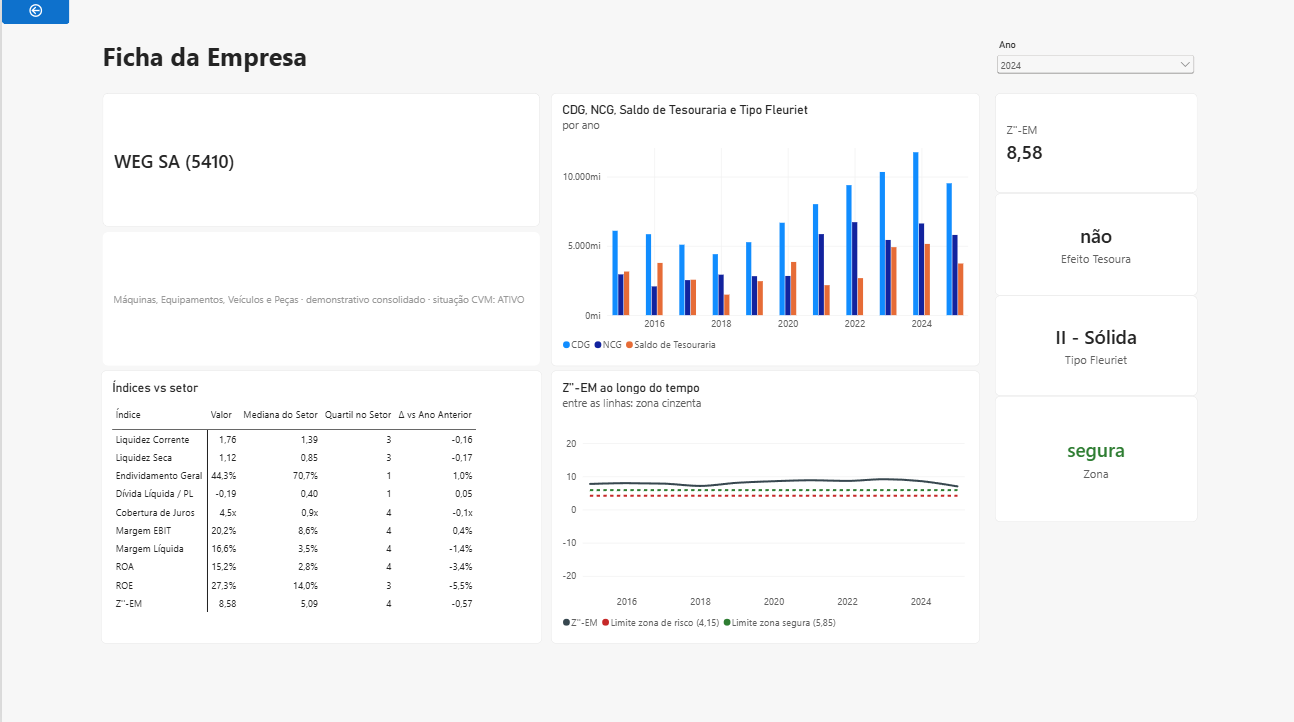
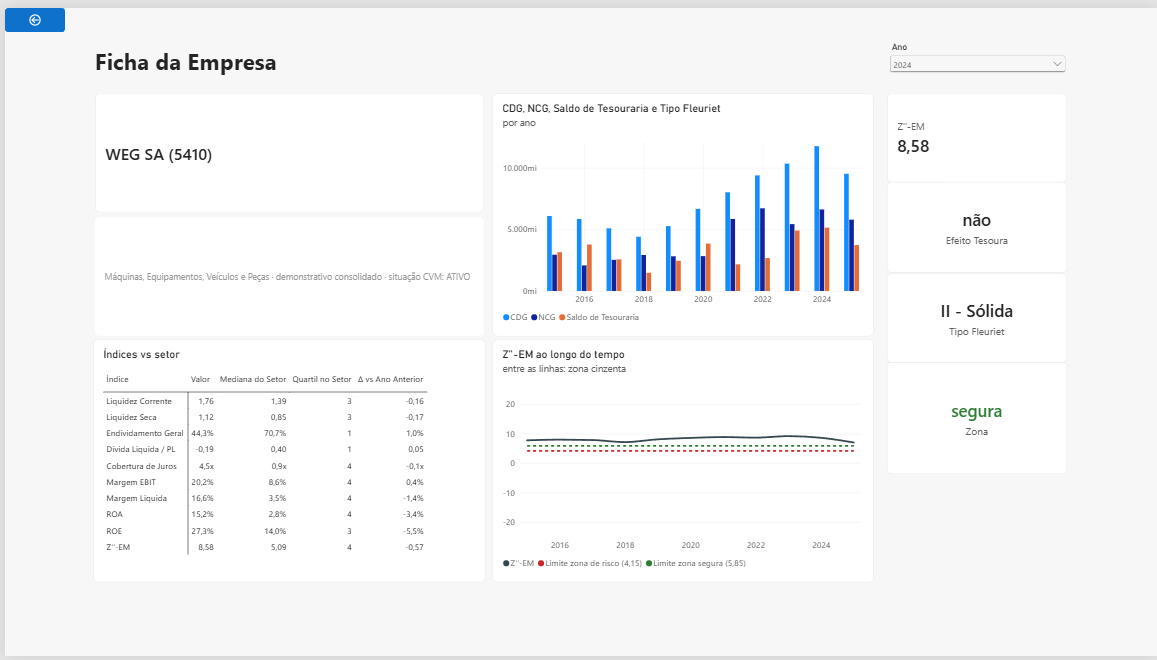
fix: achados da revisão final do branch
- validar-dax exige --ano/--ano-base em percentil/migracao e acusa
  coluna ausente no CSV com mensagem clara
- docs alinhados ao modelo: medida 'vs Ano Anterior', Top 5, Empresas com
  Valor, alcance da validação do Z, novas linhas de validação

diff --git a/tests/test_validacao.py b/tests/test_validacao.py
@@ -116,3 +116,18 @@ def test_ler_resultado_dax_decimal_virgula_do_modelo_pt_br(tmp_path):
     df = validacao.ler_resultado_dax(p)
     assert df.iloc[0]["x"] == 1.5
     assert math.isnan(df.iloc[1]["x"])
+
+
+def test_cli_percentil_e_migracao_exigem_ano():
+    from pipeline import cli
+    with pytest.raises(SystemExit):
+        cli.main(["validar-dax", "percentil", "x.csv"])
+    with pytest.raises(SystemExit):
+        cli.main(["validar-dax", "migracao", "x.csv", "--ano", "2025"])
+
+
+def test_comparar_coluna_ausente_no_dax_da_erro_claro():
+    dax = pd.DataFrame({"k": [1]})
+    ref = pd.DataFrame({"k": [1], "x": [1.0]})
+    with pytest.raises(ValueError, match="x"):
+        validacao.comparar(dax, ref, ["k"], ["x"])

diff --git a/pipeline/cli.py b/pipeline/cli.py
@@ -89,6 +89,11 @@ def main(argv=None):
     p_val.add_argument("--ano", type=int)
     p_val.add_argument("--ano-base", type=int)
     args = parser.parse_args(argv)
+    if args.comando == "validar-dax":
+        if args.tipo in ("percentil", "migracao") and args.ano is None:
+            parser.error(f"validar-dax {args.tipo} exige --ano")
+        if args.tipo == "migracao" and args.ano_base is None:
+            parser.error("validar-dax migracao exige --ano-base")
 
     if args.comando == "run":
         run(_parse_anos(args.anos), forcar=args.forcar)

diff --git a/pipeline/validacao.py b/pipeline/validacao.py
@@ -14,6 +14,9 @@ def ler_resultado_dax(caminho):
 
 
 def comparar(dax, ref, chaves, colunas, tol=1e-6):
+    ausentes = [c for c in [*chaves, *colunas] if c not in dax.columns]
+    if ausentes:
+        raise ValueError(f"colunas ausentes no resultado do DAX: {ausentes}")
     m = dax.merge(ref, on=chaves, how="outer", suffixes=("_dax", "_ref"), indicator=True)
     saida = [{**{k: r[k] for k in chaves}, "coluna": "(linha)", "dax": r["_merge"], "ref": None}
              for _, r in m[m["_merge"] != "both"].iterrows()]

diff --git a/docs/dicionario-metricas.md b/docs/dicionario-metricas.md
@@ -2,7 +2,7 @@
 
 Modelo: `powerbi/analise-credito-cvm.SemanticModel` (tabela `Medidas` e grupo
 de cálculo `Benchmark`). Responsável: Leonardo Santiago Floriano.
-Última revisão: 2026-09-23. A descrição de cada medida no modelo repete a
+Última revisão: 2026-09-29. A descrição de cada medida no modelo repete a
 definição curta daqui. **Mudou uma medida? Atualize esta página no mesmo
 commit.** O DAX completo está no TMDL (`definition/tables/Medidas.tmdl`,
 `Benchmark.tmdl`); a validação contra o Python está em `docs/validacao-dax.md`.
@@ -34,9 +34,9 @@ Páginas: **T** = Triagem de risco · **F** = Ficha da empresa ·
 | Medida | Definição | Leitura | Brancos | Páginas |
 |---|---|---|---|---|
 | Liquidez Corrente | Ativo Circulante / Passivo Circulante | Maior é melhor; < 1 = o ativo de curto prazo não cobre o passivo de curto prazo | PC = 0 | F, P |
-| Liquidez Seca | (Ativo Circulante − Estoques) / Passivo Circulante | Maior é melhor; liquidez sem depender de vender estoques | PC = 0 | F, P |
+| Liquidez Seca | (Ativo Circulante − Estoques) / Passivo Circulante | Maior é melhor; liquidez sem depender de vender estoques | PC = 0; estoques ausente | F, P |
 | Endividamento Geral | (Passivo Circulante + Passivo Não Circulante) / Ativo Total | Menor é melhor; parcela do ativo financiada por terceiros | AT = 0 | F, P |
-| Dívida Líquida / PL | (Empréstimos CP + Empréstimos LP − Caixa − Aplicações) / PL | Menor é melhor; negativo = caixa líquido | PL ≤ 0; caixa ausente (1 empresa-ano) | F, P |
+| Dívida Líquida / PL | (Empréstimos CP + Empréstimos LP − Caixa − Aplicações) / PL | Menor é melhor; negativo = caixa líquido | PL ≤ 0; qualquer componente ausente (caixa ausente em 1 empresa-ano) | F, P |
 | Cobertura de Juros | EBIT / \|Despesas Financeiras\| | Maior é melhor; < 1x = o operacional não paga os juros | despesa financeira = 0 | F, P |
 | Margem EBIT | EBIT / Receita Líquida | Maior é melhor | receita = 0 | F, P |
 | Margem Líquida | Lucro Líquido / Receita Líquida | Maior é melhor | receita = 0 | F, P |
@@ -94,8 +94,9 @@ IF ( COUNTROWS ( fato_indicadores ) = 1,
 | Valor do Índice | O índice escolhido em `dim_indice[indice]`: um seletor que troca a medida (SWITCH). Formato vem de `dim_indice[formato]` | F, P |
 | Fórmula do Índice | Fórmula do índice escolhido, para tooltip | F |
 | Leitura do Índice | Direção de leitura (maior/menor é melhor) e ressalvas do índice escolhido, para tooltip | F |
-| Q1 / Mediana / Q3 do Setor (índice) | Atalhos: `[Valor do Índice]` com o item Q1, Mediana ou Q3 do Setor. Existem para que cada coluna de uma tabela possa ter formatação própria (ex.: barras só na mediana) e para `[Empresas]` caber na mesma tabela | P |
-| Nome do Índice | Nome do índice em contexto, para títulos dinâmicos (com o grupo de cálculo, "valor do campo" só aceita medida) | F |
+| Q1 / Mediana / Q3 do Setor (índice) | Atalhos: `[Valor do Índice]` com o item Q1, Mediana ou Q3 do Setor. Existem para que cada coluna de uma tabela possa ter formatação própria (ex.: barras só na mediana) e para `[Empresas]` caber na mesma tabela. **Não combine com `Benchmark[Comparação]` no mesmo visual**: na linha "Mediana do Setor" o item seria aplicado duas vezes e a medida fica em branco | P |
+| Nome do Índice | Nome do índice em contexto, para títulos dinâmicos (com o grupo de cálculo, "valor do campo" só aceita medida) | F, P |
+| Empresas com Valor | Empresas com o índice escolhido calculado: quantos valores entram de fato na mediana e nos quartis (menor que `[Empresas]` quando há PL ≤ 0, receita zero ou Z indeterminado). Use no filtro "≥ 3" do Panorama | P |
 
 Itens do grupo de cálculo `Benchmark[Comparação]`. Eles só transformam as
 medidas de índice (`[Valor do Índice]`, os 9 índices e `[Z''-EM]`); qualquer
@@ -109,7 +110,7 @@ outra medida (textos, avisos, contagens) passa intacta, o que permite usar
 | Q1 do Setor / Q3 do Setor | 1º e 3º quartis (`PERCENTILEX.INC` 0,25 e 0,75, interpolação linear) | Idem |
 | Percentil no Setor | Fração das empresas do setor com valor **menor ou igual** ao da empresa (0–100%) | Empates contam a favor da empresa |
 | Quartil no Setor | 1 (valores mais baixos) a 4 (mais altos), = ⌈percentil × 4⌉ | **Não** diz se é bom: para Endividamento e Dívida Líquida/PL, quartil 1 é o melhor. Ver `[Leitura do Índice]`. |
-| Δ vs Ano Anterior | Valor do ano − valor do ano anterior, mesmo contexto | Para índices em %, o resultado está em pontos percentuais |
+| Δ vs Ano Anterior | Valor do ano − valor do ano anterior, mesmo contexto | Para índices em %, o resultado está em pontos percentuais. Sobre o Z usa o Z real: numa empresa fora da escala o Δ pode ser enorme (a Triagem usa `[Δ Z''-EM (exibição)]`, que esconde esse caso) |
 
 Implementação: os itens setoriais montam primeiro uma tabela
 (empresa → valor) só com as empresas que têm linha no fato, e depois agregam
@@ -122,7 +123,7 @@ caso está documentado em `docs/validacao-dax.md`.
 | Medida | Definição | Páginas |
 |---|---|---|
 | Empresa Selecionada | "nome (CD_CVM)" da empresa em contexto; sem empresa, instrui a chegar pela Triagem via Detalhamento | F |
-| Detalhe da Empresa | Setor · tipo de demonstrativo · situação na CVM da empresa em contexto | F |
+| Detalhe da Empresa | Setor · tipo de demonstrativo **usado no ano exibido** (`fato_indicadores[tipo_demonstrativo]`; em 257 empresas-ano ele difere do mais recente) · situação na CVM | F |
 
 ## Triagem (pasta Triagem)
 
@@ -130,10 +131,11 @@ caso está documentado em `docs/validacao-dax.md`.
 |---|---|---|
 | Empresas | Empresas distintas no contexto | T, P |
 | Empresas-Ano | Linhas empresa-ano no contexto | — |
-| Δ Empresas vs Ano Anterior | Empresas no ano − empresas no ano anterior, mesmo filtro (ex.: cartão da zona risco). Mistura migração de zona com entrada e saída de empresas do universo | T |
+| vs Ano Anterior | *(nome curto por ter sido renomeada no cartão; antes "Δ Empresas vs Ano Anterior")* Empresas no ano − empresas no ano anterior, mesmo filtro (ex.: cartão da zona risco). Mistura migração de zona com entrada e saída de empresas do universo | T |
 | % em Risco | Empresas-ano na zona risco / empresas-ano com Z calculado. A zona indeterminada fica fora do denominador | P |
 | % com Efeito Tesoura | Empresas-ano com alerta / empresas-ano com histórico comparável. **Nulos fora do denominador** (1.771 empresas-ano sem histórico) | T |
-| Migração de Zona | Empresas que estavam na zona da linha (`zona_origem`) no ano de `ano_base` e estão na zona da coluna (`dim_zona`) no ano selecionado. Só conta empresas presentes nos dois anos | T |
+| Migração de Zona | Empresas que estavam na zona da linha (`zona_origem`) no ano de `ano_base` e estão na zona da coluna (`dim_zona`) no ano selecionado. Só conta empresas presentes nos dois anos. **Sem ano base escolhido, usa o ano anterior**; ano base igual ou posterior ao selecionado → branco (comparar 2024 com 2024 daria só a diagonal) | T |
+| Título Migração | Título dinâmico da matriz: "Migração entre zonas: 2024 → 2025 …", ou um aviso quando o ano base não é anterior ao selecionado | T |
 | Cor da Zona | Hexadecimal da zona (segura #2E7D32, cinzenta #F9A825, risco #C62828, indeterminada #9E9E9E), para formatação condicional | T, F |
 
 ## Avisos (pasta Avisos)
@@ -150,7 +152,7 @@ caso está documentado em `docs/validacao-dax.md`.
 | Medida | Definição | Páginas |
 |---|---|---|
 | Problemas de Qualidade | Registros no log de qualidade do pipeline (`qualidade`, tabela desconectada) | Q |
-| Empresas Excluídas | Empresas distintas excluídas na etapa `filtro`: setor financeiro, sem cadastro, ativo total nulo ou zero, layout não padrão | Q |
+| Empresas Excluídas | Empresas distintas excluídas na etapa `filtro`: setor financeiro, sem cadastro, ativo total nulo ou zero, layout não padrão. Respeita a segmentação de etapa (em branco se ela excluir "filtro") | Q |
 
 ## Limitações
 

diff --git a/docs/roteiro-visuais.md b/docs/roteiro-visuais.md
@@ -39,10 +39,10 @@ Pergunta: *quais empresas olhar primeiro, e o quadro está melhorando?*
 | 1 | Segmentação | `dim_ano[ano]` | a sincronizada (regras gerais) |
 | 2 | Segmentação | `dim_setor[setor]` | lista suspensa, multisseleção, caixa de pesquisa ligada |
 | 3 | Segmentação | `dim_zona[zona]` | estilo botões, horizontal. **Editar interações:** ela filtra **só** a tabela (#8); nos cartões (#4–6) e na matriz (#7), marque "nenhum" |
-| 4 | Cartão (novo) "Zona segura" | Valor `[Empresas]`; filtro do visual `dim_zona[zona]` = segura; rótulo de referência `[Δ Empresas vs Ano Anterior]` | cor do valor `#2E7D32`; rótulo de referência com legenda "vs ano anterior" |
+| 4 | Cartão (novo) "Zona segura" | Valor `[Empresas]`; filtro do visual `dim_zona[zona]` = segura; rótulo de referência `[vs Ano Anterior]` | cor do valor `#2E7D32`; rótulo de referência com legenda "vs ano anterior" |
 | 5 | Cartão (novo) "Zona cinzenta" | idem, com cinzenta | cor `#F9A825` |
 | 6 | Cartão (novo) "Zona de risco" | idem, com risco | cor `#C62828` |
-| 7 | Matriz "Migração de zona" | Linhas `zona_origem[zona_origem]`; Colunas `dim_zona[zona]`; Valores `[Migração de Zona]` | ao lado, segmentação `ano_base[ano_base]` (lista suspensa, seleção única, 2024, título "Ano base"). Fundo das células em escala de cor (branco → `#37474F`). Linhas = zona no ano base; colunas = zona no ano selecionado; a diagonal é quem ficou na mesma zona. Título: "Migração entre zonas (linha: ano base; coluna: ano selecionado)" |
+| 7 | Matriz "Migração de zona" | Linhas `zona_origem[zona_origem]`; Colunas `dim_zona[zona]`; Valores `[Migração de Zona]` | ao lado, segmentação `ano_base[ano_base]` (lista suspensa, título "Ano base (vazio = ano anterior)"; **deixe sem seleção** para comparar sempre com o ano anterior). Título dinâmico por `[Título Migração]`. Fundo das células em escala de cor (branco → `#37474F`). Linhas = zona no ano base; colunas = zona no ano selecionado; a diagonal é quem ficou na mesma zona. Título: "Migração entre zonas (linha: ano base; coluna: ano selecionado)" |
 | 8 | Tabela "Empresas" | `dim_empresa[empresa]`, `dim_setor[setor]`, `[Z''-EM (exibição)]`, `[Fora da Escala]`, `[Zona]`, `[Tipo Fleuriet]`, `[Δ Z''-EM (exibição)]`, `[Efeito Tesoura]` | ordenar por `[Z''-EM (exibição)]` crescente (piores primeiro; as fora da escala empatam em −25 e aparecem como "< -25"). Subtítulo: "Z limitado a ±25; Δ em branco = sem ano anterior ou fora da escala". Formatação condicional: fundo de `[Zona]` por **valor de campo** `[Cor da Zona]`, fonte branca; ícones em `[Δ Z''-EM (exibição)]` (seta verde se > 0, vermelha se < 0). Cabeçalhos: "Empresa", "Setor", "Z''-EM", "Z real", "Zona", "Fleuriet", "Δ Z", "Efeito tesoura" |
 | 9 | Cartão (novo) | `[% com Efeito Tesoura]` | título "Com alerta de efeito tesoura", subtítulo "entre empresas com histórico comparável" |
 | 10 | Cartão de texto (ou caixa de texto com valor dinâmico) | `[Nota Metodológica]` | rodapé, fonte 9, cinza |
@@ -99,8 +99,8 @@ Pergunta: *como o setor está, e onde a empresa se encaixa?*
 |---|---|---|---|
 | 1 | Segmentação | `dim_ano[ano]` | a sincronizada |
 | 2 | Segmentação | `dim_indice[indice]` | lista suspensa, seleção única, valor Z''-EM, título "Índice" |
-| 3 | Tabela "Distribuição do índice por setor" | `dim_setor[setor]`, `[Q1 do Setor (índice)]`, `[Mediana do Setor (índice)]`, `[Q3 do Setor (índice)]`, `[Empresas]` | título dinâmico com `[Nome do Índice]`. Barras de dados **só** em `[Mediana do Setor (índice)]` (*Elementos da célula → Série*). Ordenar pela mediana. Cabeçalhos "Setor", "Q1", "Mediana", "Q3", "Empresas". São medidas explícitas (atalhos para o grupo de cálculo), por isso dá para formatar cada coluna e pôr `[Empresas]` junto |
-| 5 | Gráfico de linhas "% em zona de risco" | Eixo X `dim_ano[ano]`; Y `[% em Risco]`; Legenda `dim_setor[setor]` | segmentação de ano → "nenhum" neste visual. Filtro do visual: Top 6 de `dim_setor[setor]` por `[Empresas]` (ou pequenos múltiplos por setor, se preferir) |
+| 3 | Tabela "Distribuição do índice por setor" | `dim_setor[setor]`, `[Q1 do Setor (índice)]`, `[Mediana do Setor (índice)]`, `[Q3 do Setor (índice)]`, `[Empresas com Valor]` | título dinâmico com `[Nome do Índice]`. Filtro do visual: `[Empresas com Valor]` ≥ 3 (conta os valores que entram na mediana, não só as empresas). Barras de dados **só** em `[Mediana do Setor (índice)]` (*Elementos da célula → Série*). Ordenar pela mediana. Cabeçalhos "Setor", "Q1", "Mediana", "Q3", "Empresas". São medidas explícitas (atalhos para o grupo de cálculo), por isso dá para formatar cada coluna e pôr `[Empresas]` junto |
+| 5 | Gráfico de linhas "% em zona de risco" | Eixo X `dim_ano[ano]`; Y `[% em Risco]`; Legenda `dim_setor[setor]` | segmentação de ano → "nenhum" neste visual. Filtro do visual: Top 5 de `dim_setor[setor]` por `[Empresas]` (ou pequenos múltiplos por setor, se preferir) |
 | 6 | Cartão de texto | `[Nota Metodológica]` | rodapé |
 
 ---

diff --git a/README.md b/README.md
@@ -11,7 +11,8 @@ consegue honrar suas obrigações, e está melhorando ou piorando?*
 - **Dois modelos de crédito:** Altman Z''-EM e Modelo Fleuriet (com efeito
   tesoura), além de 9 índices clássicos com benchmark setorial.
 - **Números conferidos três vezes:** contra as demonstrações publicadas,
-  com testes unitários no pipeline, e as medidas DAX contra o Python em
+  com testes unitários no pipeline (incluindo as fórmulas do Z e do
+  Fleuriet), e os índices e benchmarks calculados em DAX contra o Python em
   todas as 6.266 empresas-ano (0 divergências).
 
 ![Triagem de risco](docs/screenshots/01-triagem.png)
@@ -113,8 +114,8 @@ relações são 1:N com filtro unidirecional. O destaque de DAX:
 - **Grupo de cálculo `Benchmark`**: mediana, Q1/Q3, percentil, quartil e
   variação anual do setor, aplicáveis a qualquer índice. Junto com o seletor
   `[Valor do Índice]`, a ficha inteira é uma matriz só.
-- **Matriz de migração** entre zonas de dois anos quaisquer, com tabelas
-  desconectadas para o ano base e a zona de origem.
+- **Matriz de migração** entre zonas de dois anos (por padrão, o ano
+  anterior), com tabelas desconectadas para o ano base e a zona de origem.
 - **Z limitado a ±25 na exibição**: 7% das empresas-ano têm Z extremo por
   ativo irrisório; o Z real continua disponível e é o que define a zona.
 
@@ -143,13 +144,13 @@ Depois:
    parâmetros*). O caminho termina em barra invertida.
 3. Clique em **Atualizar**.
 
-Testes: `.venv/Scripts/python -m pytest` (80 testes, sem acesso à rede).
+Testes: `.venv/Scripts/python -m pytest` (82 testes, sem acesso à rede).
 
 ## Verificação
 
 | Verificação | Onde | Resultado |
 |---|---|---|
-| Testes unitários do pipeline e da validação | `tests/` | 80 passam |
+| Testes unitários do pipeline e da validação | `tests/` | 82 passam |
 | Ativo Total, PL e Lucro Líquido contra as DFP publicadas (WEG, Vale, Ambev, Magazine Luiza, Petrobras) | [`docs/conferencia-dados-reais.md`](docs/conferencia-dados-reais.md) | batem |
 | Medidas DAX × Python: índices, Z, zona e tipo Fleuriet em todas as 6.266 empresas-ano; mediana/quartis por setor-ano; percentil; migração de zona | [`docs/validacao-dax.md`](docs/validacao-dax.md) | 0 divergências |
 | QA do relatório: interações, detalhamento, totais, formatos, desempenho | checklist de QA | ok |

diff --git a/docs/validacao-dax.md b/docs/validacao-dax.md
@@ -17,6 +17,9 @@ Tolerância relativa e absoluta de 1e-6; branco no DAX = NaN no Python.
 | Percentil no setor para os 10 índices, 2024 | `percentil` | 633 | 0 |
 | Matriz de migração de zona 2024 → 2025 | `migracao` | 11 células | 0 |
 | Matriz de migração 2015 → 2025, no formato do visual (com colunas de ordem), após o defeito 2 | `migracao` | 11 células | 0 |
+| Índices após as guardas de nulo da revisão final (2026-09-29) | `indices` | 6.266 | 0 |
+| Medidas `(índice)` (Q1/Mediana/Q3) e `[Empresas com Valor]`, no formato da tabela do Panorama: setor × ano × índice | script ad hoc sobre `comparar` | 2.768 | 0 |
+| Migração sem ano base (= ano anterior) × com ano base 2024, ano 2025 | manual | 11 células | iguais; ano base = ano → vazio |
 | Contagens por zona, % em risco, % com efeito tesoura, qualidade | manual | — | 0 |
 | Quartil e Δ vs ano anterior, WEG (5410) 2024, via `[Valor do Índice]` | manual | 70 | 0 |
 
@@ -27,12 +30,20 @@ Detalhe das checagens manuais:
 - `% em Risco` = 0,335418 (2.092 / 6.237); `% com Efeito Tesoura` = 0,199778
   (898 / 4.495, nulos fora do denominador).
 - `Problemas de Qualidade` 1.268; `Empresas Excluídas` 217; `Empresas` 830.
-- `Δ Empresas vs Ano Anterior` na zona risco, 2025: −7 (pandas: −7).
+- `[vs Ano Anterior]` (antes `Δ Empresas vs Ano Anterior`) na zona risco, 2025: −7 (pandas: −7).
 - WEG 2024: mediana do setor (Máquinas, Equipamentos, Veículos e Peças) da
   Liquidez Corrente 1,386293 e do Z 5,093053, iguais ao `groupby` do pandas;
   `Δ vs Ano Anterior` do Z −0,569428 = Z 2024 − Z 2023 de
   `referencia_indices.csv`; quartis coerentes com os percentis
   (0,75 → 3; 0,93 → 4; 0,13 → 1).
+
+## Alcance da validação
+
+Z, zona e tipo Fleuriet são calculados no pipeline e só lidos pelo DAX
+(`MAX`); a comparação deles prova que o modelo carregou as colunas certas,
+não a fórmula, que é coberta pelos testes de `tests/test_scores.py`. Os 9
+índices, o benchmark setorial, o percentil e a migração são calculados no
+DAX e comparados com cálculo independente no Python.
 
 ## Defeito encontrado e corrigido
 
